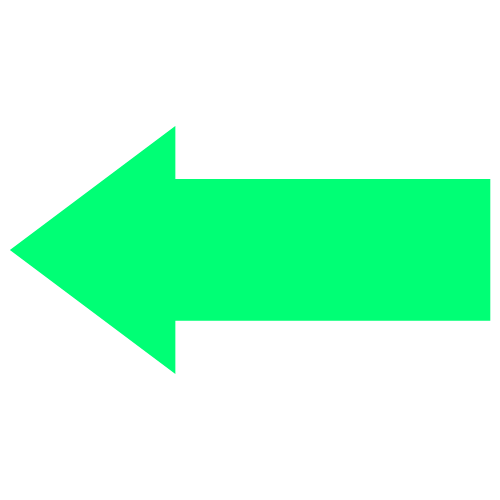
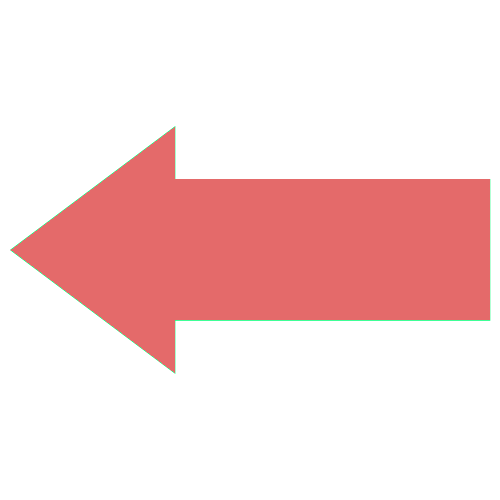
style changes

Changed region(s): [[0.03, 0.24, 0.99, 0.75]]

diff --git a/style.css b/style.css
@@ -30,13 +30,13 @@ body {
 #heading {
     text-align: center;
     margin: 2em;
-    color: rgb(0, 255, 200);
+    color: rgb(228, 106, 106);
     font-size: 1.2em;
 }
 
 .header_network p {
-    border: 1px solid #00642f;
-    color: #00542f;
+    border: 1px solid #060100;
+    color: #060100;
     font-weight: bold;
     padding: 0.5rem 1rem;
     border-radius: 1rem;
@@ -66,7 +66,7 @@ body {
 
 .network_title {
     font-size: 1.3rem;
-    border: 1px solid rgb(0,255,200);
+    border: 1px solid rgb(228, 106, 106);
 }
 
 .network_item{
@@ -94,7 +94,7 @@ body {
 }
 
 .home_title{
-    color: rgb(0, 255, 200);
+    color: rgb(228, 106, 106);
     font-size: 1.2em;
     cursor: pointer;
 }
@@ -117,7 +117,7 @@ body {
 .home_header p,
 .home_screen_login p,
 .home_screen_signup p{
-    background-image: linear-gradient(163deg, #00ff75, #3700ff, 100%);
+    background-image: linear-gradient(163deg, #e46a6a 0%, #6a12a0 100%);
     background-clip: text;
     -webkit-text-fill-color: rgb(224, 230, 229);
 }
@@ -136,7 +136,7 @@ body {
     text-align: center;
     padding: 2rem;
     display: none;
-    color: rgb(0, 255, 200);
+    color: rgb(228, 106, 106);
     text-align: center;
 }
 
@@ -174,7 +174,7 @@ body {
 .input-icon {
     height: 1.3em;
     width: 1.3em;
-    fill: rgb(0, 255, 200);
+    fill: rgb(228, 106, 106);
 }
 
 .input-field{
@@ -182,7 +182,7 @@ body {
     border: none;
     outline: none;
     width: 100%;
-    color: rgb(0,255,200);
+    color: rgb(228, 106, 106);
 }
 
 .form .btn {
@@ -201,13 +201,13 @@ body {
     border: none;
     outline: none;
     transition: 0.4s ease-in-out;
-    background-image: linear-gradient(163deg, #00ff75 0%, #3700ff 100%);
+    background-image: linear-gradient(163deg, #e46a6a 0%, #6a12a0 100%);
     color: rgb(0,0,0);
 }
 
 .button1:hover {
     background-image: linear-gradient(163deg, #00642f 0%, #13034b 100%);
-    color: rgb(0, 255, 200);
+    color: rgb(228, 106, 106);
 }
 
 .button2 {
@@ -218,13 +218,13 @@ body {
     border: none;
     outline: none;
     transition: 0.4s ease-in-out;
-    background-image: linear-gradient(163deg, #00ff75 0%, #3700ff 100%);
+    background-image: linear-gradient(163deg, #e46a6a 0%, #6a12a0 100%);
     color: rgb(0,0,0);
 }
 
 .button2:hover{
     background-image: linear-gradient(163deg, #00642f 0%, #13034b 100%);
-    color: rgb(0,255,200);
+    color: rgb(228, 106, 106);
 }
 
 .button3{
@@ -234,7 +234,7 @@ body {
     border: none;
     outline: none;
     transition: 0.4s ease-in-out;
-    background-image: linear-gradient(163deg, #00ff75 0%, #3700ff 100%);
+    background-image: linear-gradient(163deg, #e46a6a 0%, #6a12a0 100%);
     color: rgb(0, 0, 0);
 }
 
@@ -244,7 +244,7 @@ body {
 }
 
 .card{
-    background-image: linear-gradient(163deg, #00ff75 0%, #3700ff 100%);
+    background-image: linear-gradient(163deg, #e46a6a 0%, #6a12a0 100%);
     /* border-radius: 22px*/
     transition: all 0.3s;
 }
@@ -270,7 +270,7 @@ small, p{
 }
 a{
     text-decoration: none;
-    color: rgb(0, 255, 200);
+    color: rgb(228, 106, 106);
     display: none;
 }
 
@@ -417,7 +417,7 @@ textarea {
 
 .home_feature_item > p {
     line-height: 0;
-    color: #00ff75;
+    color: #e46a6a;
 }
 
 .home_tabs {
@@ -432,7 +432,7 @@ textarea {
     grid-template-columns: repeat(3,1fr);
     align-items: center;
     grid-area: 2rem;
-    border-top: 1px solid #00ff75;
+    border-top: 1px solid #e46a6a;
     padding: 1rem 0;
 }
 
@@ -440,7 +440,7 @@ textarea {
 .assets_item_img{
     width: 20px;
     height: 20px;
-    border: 1px solid #00ff75;
+    border: 1px solid #e46a6a;
     border-radius: 0.5rem;
     padding: 0.5rem;
 }
@@ -474,10 +474,10 @@ textarea {
 .lists {
     display: grid;
     grid-template-columns: 0.1fr 5fr;
-    border-bottom: 1px solid #00ff75;
+    border-bottom: 1px solid #e46a6a;
     align-items: center;
 }
 
 #accountList{
-    -webkit-text-fill-color: rgb(0, 255, 200);
+    -webkit-text-fill-color: rgb(228, 106, 106);
 }
